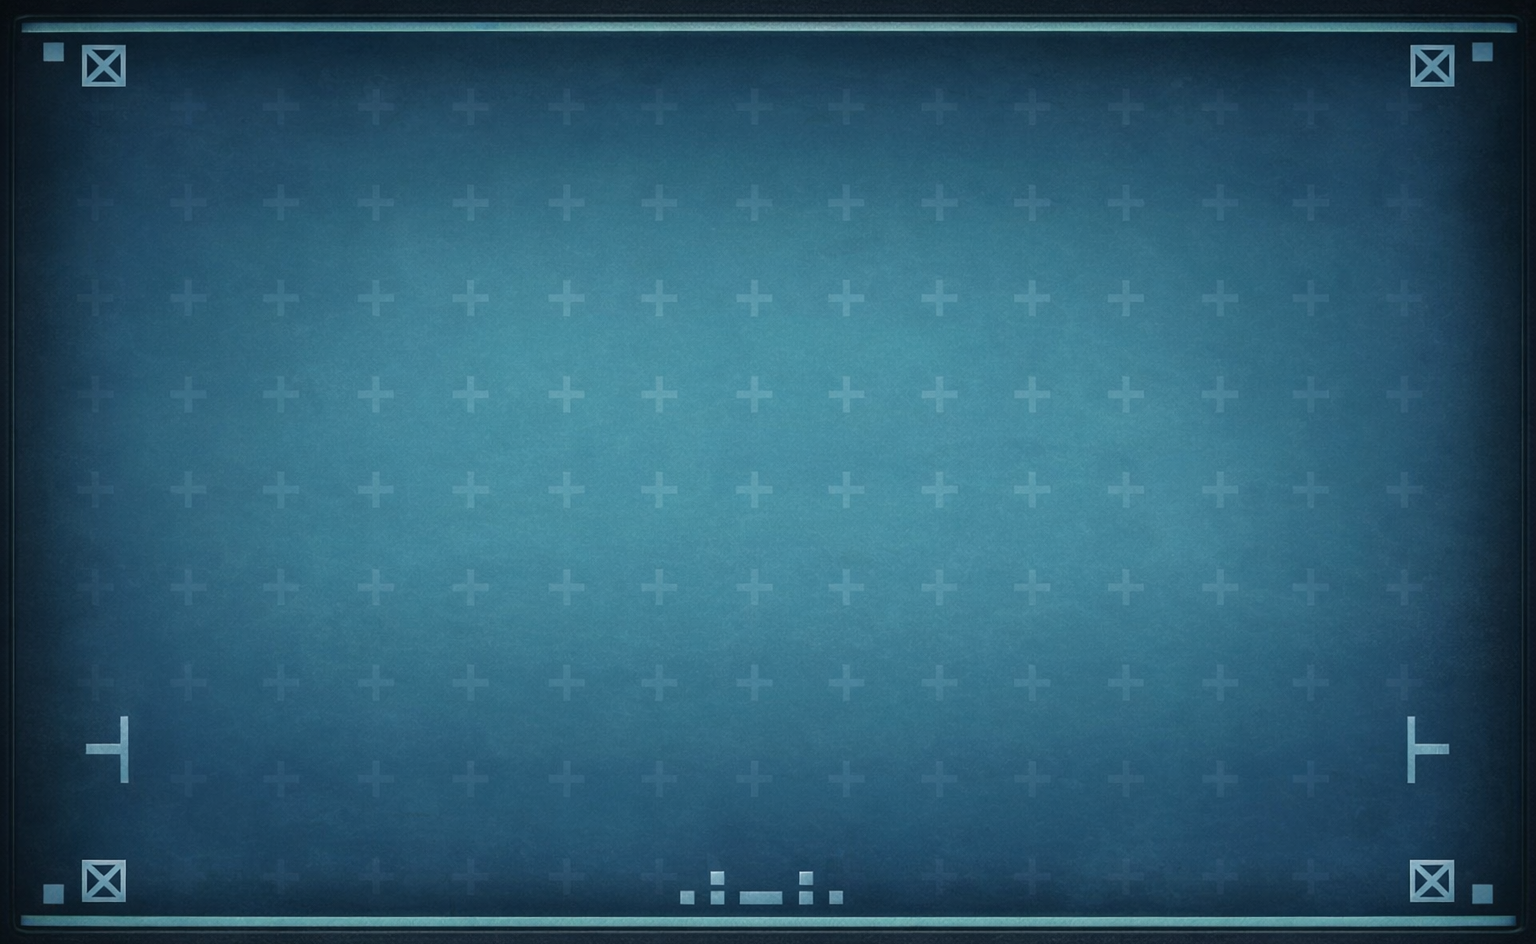
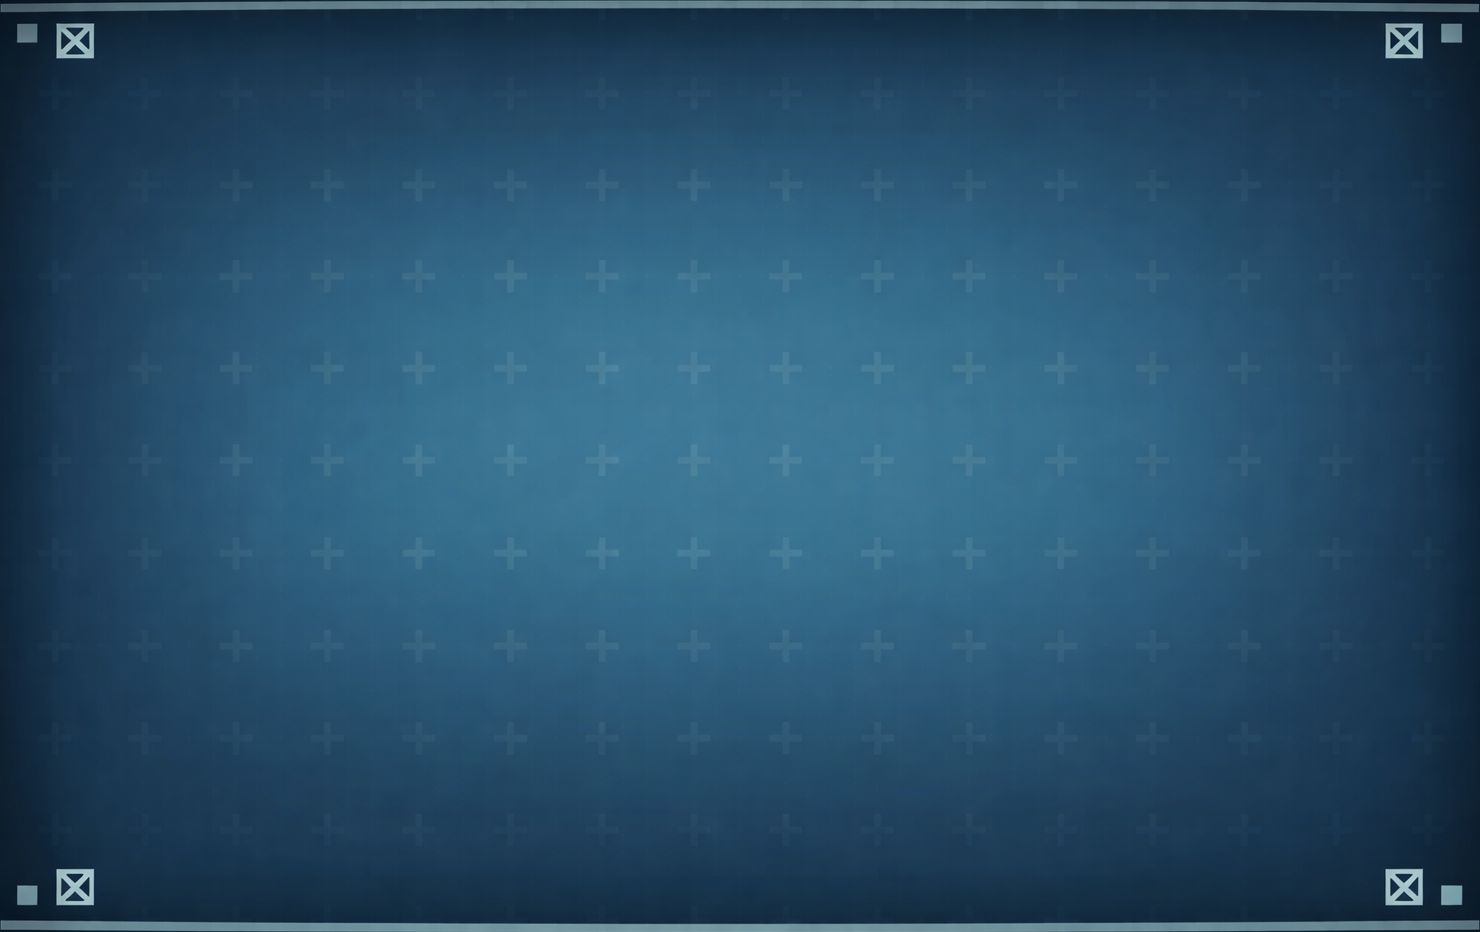
ver 1.3
Added:
- New background for boot screen.
- Changed pressed arrow display from words to images.

diff --git a/main.py b/main.py
@@ -1,6 +1,6 @@
 from kivy.config import Config
-Config.set('graphics', 'width', '800')
-Config.set('graphics', 'height', '480')
+Config.set('graphics', 'width', '750')
+Config.set('graphics', 'height', '470')
 Config.set('graphics', 'resizable', '0')
 
 import kivy
@@ -12,6 +12,7 @@ from kivy.uix.button import Button
 from kivy.uix.label import Label
 from kivy.uix.image import Image as uixImage
 from kivy.uix.widget import Widget
+from kivy.uix.boxlayout import BoxLayout
 from kivy.clock import Clock
 from kivy.graphics import RoundedRectangle, Color, Line
 from kivy.animation import Animation
@@ -76,10 +77,10 @@ class TacPad(FloatLayout):
         # Stratagems
         self.stratagems = STRATAGEMS
 
-        # Background
+        # Background (boot background first)
         from kivy.uix.image import Image
         self.bg = Image(
-            source="images/background/background.png",
+            source="images/background/boot_background.png",
             allow_stretch=True,
             keep_ratio=True,
             size_hint=(1, 1)
@@ -99,31 +100,30 @@ class TacPad(FloatLayout):
         self.start_label.bind(size=self.start_label.setter('text_size'))
         self.add_widget(self.start_label)
 
-        # Display for user input sequence (top-left)
-        self.sequence_label = Label(
-            text="",
-            font_size="40sp",
-            halign="left",
-            valign="top",
+        # Arrow Image Sequence Display (top-left)
+        self.sequence_display = BoxLayout(
+            orientation="horizontal",
+            spacing=8,
+            size_hint=(None, None),
+            height=60,
             pos_hint={"x": 0.02, "top": 0.98},
-            color=(0, 1, 1, 1),  # Cyan
-            opacity=0,
-            font_name="HelldiversFont"
+            opacity=0
         )
-        self.sequence_label.bind(size=self.sequence_label.setter("text_size"))
-        self.add_widget(self.sequence_label)
+        self.add_widget(self.sequence_display)
 
         # Startup screen
         self.startup_layout = FloatLayout(size_hint=(1, 1))
         self.add_widget(self.startup_layout)
+
         self.startup_label = Label(
             text="PERSONAL HELLPAD\nSYSTEM",
-            font_size="80sp",
+            font_size="70sp",
             font_name="HelldiversFont",
             halign="center",
             pos_hint={"center_x": 0.5, "center_y": 0.5}
         )
         self.startup_layout.add_widget(self.startup_label)
+
         self.loading_bar = LoadingBar(
             size_hint=(0.6, 0.05),
             pos_hint={"center_x": 0.5, "center_y": 0.205}
@@ -135,12 +135,39 @@ class TacPad(FloatLayout):
         self.loading_event = Clock.schedule_interval(self.update_loading, 8.5 / 100)
         self.bind(on_touch_down=self.activate_arrows)
 
+    # ===============================
+    # Sequence Display Helpers
+    # ===============================
+    def add_arrow_to_display(self, direction):
+        arrow_img = uixImage(
+            source=f"images/arrows/{direction}.png",
+            size_hint=(None, None),
+            size=(45, 45),
+            allow_stretch=True,
+            keep_ratio=True
+        )
+        self.sequence_display.add_widget(arrow_img)
+
+        if self.sequence_display.opacity == 0:
+            self.fade_widget(self.sequence_display, 1, duration=0.15)
+
+    def clear_sequence_display(self):
+        self.user_input_sequence = []
+        self.sequence_display.clear_widgets()
+        self.fade_widget(self.sequence_display, 0, duration=0.15)
+
+    # ===============================
     # Loading logic
+    # ===============================
     def update_loading(self, dt):
         self.loading_progress += 1
         self.loading_bar.set_progress(self.loading_progress)
         if self.loading_progress >= 100:
             self.remove_widget(self.startup_layout)
+
+            # Switch to main background after boot
+            self.bg.source = "images/background/background.png"
+
             self.booting = False
             self.fade_widget(self.start_label, 1, duration=0.2)
             return False
@@ -171,9 +198,11 @@ class TacPad(FloatLayout):
     def show_arrows(self):
         if self.start_label.parent:
             self.remove_widget(self.start_label)
+
         self.create_arrows()
         self.arrows_active = True
         self.reset_inactivity_timer()
+
         for btn_attr in ['up_btn', 'down_btn', 'left_btn', 'right_btn']:
             btn = getattr(self, btn_attr, None)
             if btn:
@@ -184,17 +213,27 @@ class TacPad(FloatLayout):
         btn = Button(
             background_normal=image_path,
             background_down=image_path,
-            background_color=(1, 1, 1, 1),
+            background_color=(1,1,1,1),  # white tint won't affect much
             size_hint=(None, None),
             size=(120, 120),
             pos_hint={"center_x": center_x, "center_y": center_y},
         )
-        with btn.canvas.after:
-            Color(1, 1, 1, 1)
-            border = Line(rounded_rectangle=(btn.x, btn.y, btn.width, btn.height, 10), width=5)
-        def update_border(instance, value):
-            border.rounded_rectangle = (btn.x, btn.y, btn.width, btn.height, 10)
+
+        # Draw thick white rounded border
+        with btn.canvas.before:
+            Color(1, 1, 1, 1)  # White
+            btn.border_line = Line(
+                rounded_rectangle=(btn.x, btn.y, btn.width, btn.height, 10),
+                width=4
+            )
+
+        # Update border on move/resize
+        def update_border(instance, *args):
+            instance.border_line.rounded_rectangle = (
+                instance.x, instance.y, instance.width, instance.height, 10
+            )
         btn.bind(pos=update_border, size=update_border)
+
         btn.bind(on_press=lambda instance: self.button_pressed(direction))
         return btn
 
@@ -224,10 +263,7 @@ class TacPad(FloatLayout):
 
     def record_input(self, direction):
         self.user_input_sequence.append(direction)
-        # Update the sequence display
-        self.sequence_label.text = " ".join(self.user_input_sequence)
-        if self.sequence_label.opacity == 0:
-            self.fade_widget(self.sequence_label, 1, duration=0.2)
+        self.add_arrow_to_display(direction)
 
         possible = False
         for code, data in self.stratagems.items():
@@ -236,30 +272,38 @@ class TacPad(FloatLayout):
                 if len(self.user_input_sequence) == len(code):
                     self.show_stratagem(data["name"], data["image"])
                 break
+
         if not possible:
-            self.user_input_sequence = []
-            self.fade_widget(self.sequence_label, 0, duration=0.2)
+            self.clear_sequence_display()
 
     def show_stratagem(self, strat_name, image_path):
-        if self.sequence_label.opacity > 0:
-            self.fade_widget(self.sequence_label, 0, duration=0.2)
-
+        self.clear_sequence_display()
         self.remove_arrows()
+
         container = FloatLayout(size_hint=(1, 1), opacity=0)
+
         icon = uixImage(
-            source=image_path, size_hint=(None, None), size=(150, 150),
-            pos_hint={"center_x": 0.5, "center_y": 0.65}, allow_stretch=True, keep_ratio=True
+            source=image_path,
+            size_hint=(None, None),
+            size=(150, 150),
+            pos_hint={"center_x": 0.5, "center_y": 0.65},
+            allow_stretch=True,
+            keep_ratio=True
         )
         container.add_widget(icon)
+
         label = Label(
             text=f"REQUESTING:\n{strat_name}",
-            font_size="60sp", font_name="HelldiversFont",
-            halign="center", valign="middle",
+            font_size="60sp",
+            font_name="HelldiversFont",
+            halign="center",
+            valign="middle",
             pos_hint={"center_x": 0.5, "center_y": 0.35},
             color=(1, 1, 1, 1)
         )
         label.bind(size=label.setter("text_size"))
         container.add_widget(label)
+
         self.strat_image = container
         self.add_widget(container)
         self.fade_widget(container, 1, duration=0.2)
@@ -283,9 +327,8 @@ class TacPad(FloatLayout):
         if self.strat_image:
             self.remove_widget(self.strat_image)
             self.strat_image = None
-        self.user_input_sequence = []
-        if self.sequence_label.opacity > 0:
-            self.fade_widget(self.sequence_label, 0, duration=0.2)
+
+        self.clear_sequence_display()
 
         if timeout:
             self.start_label.opacity = 0
@@ -306,14 +349,12 @@ class TacPad(FloatLayout):
 
     def show_input_screen(self):
         self.remove_arrows()
-        self.user_input_sequence = []
+        self.clear_sequence_display()
         self.start_label.opacity = 0
         if not self.start_label.parent:
             self.add_widget(self.start_label)
         self.fade_widget(self.start_label, 1, duration=0.2)
         self.arrows_active = False
-        if self.sequence_label.opacity > 0:
-            self.fade_widget(self.sequence_label, 0, duration=0.2)
 
 
 # ==========================================
@@ -325,13 +366,13 @@ class TacPadApp(App):
         return self.tacpad
 
     def on_stop(self):
-        # Cancel all clocks to prevent callbacks on exit
         if hasattr(self.tacpad, 'loading_event') and self.tacpad.loading_event:
             self.tacpad.loading_event.cancel()
         if self.tacpad.inactivity_event:
             self.tacpad.inactivity_event.cancel()
         if self.tacpad.strat_timeout_event:
             self.tacpad.strat_timeout_event.cancel()
+
 
 if __name__ == "__main__":
     TacPadApp().run()

diff --git a/stratagems.py b/stratagems.py
@@ -3,7 +3,7 @@ STRATAGEMS = {
     # Common
     # ==========================================
     ("up", "down", "right", "left", "up"): {
-        "name": "Reinforce",
+        "name": "Reinforcement",
         "image": "images/stratagems/reinforce.png"
     },
     ("down", "down", "up", "right"): {
